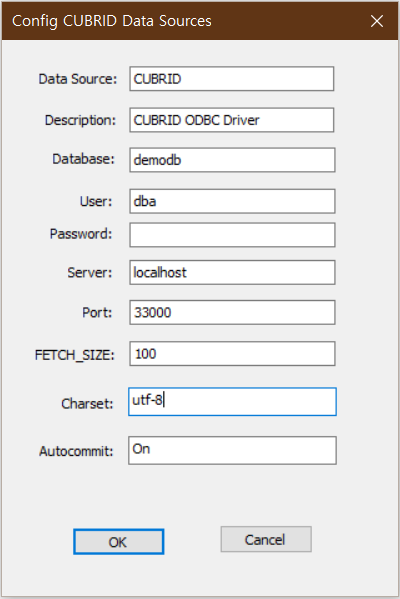
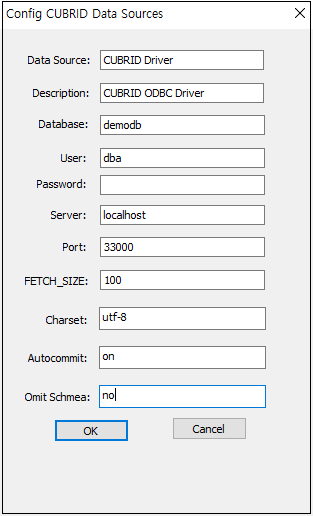
[CUBRIDMAN-126] [ODBC] new property omit_schema (#360)
new property omit_schema

Changed region(s): [[0.0, 0.0, 1.0, 1.0], [0.0863, 0.7442, 0.2875, 0.7752]]

diff --git a/en/api/odbc.rst b/en/api/odbc.rst
@@ -91,11 +91,12 @@ In the [Config CUBRID Data Sources] dialog box, enter information as follows:
 *   **Password** : The password of a database user
 *   **Server Address** : The host address of a database. The value should be either localhost or the IP address of other server.
 *   **Server Port** : The number of a broker port. You can check the CUBRID broker port number in the **cubrid_broker.conf** file. The default value is 33,000. To verify the port number, check the BROKER_PORT value in the **cubrid_broker.conf** file or enter the **cubrid service status** in the command prompt. The result will be displayed as follows:
-*   **Charset** : The name of the database charset.
-*   **Autocommit** : Autocommit mode. Default is OFF.
 
 .. image:: /images/image80.png
 
+*   **Charset** : The name of the database charset.
+*   **Autocommit** : Autocommit mode. Default is OFF.
+*   **Omit Schema** : This feature provides only the schema information created by the logged-in user when a user requests catalog information in a database server of version 11.2 or higher that supports the schema concept. This feature is required when **ERWin**:sup:`TM` uses CUBRID 11.2 or higher (omit_schema=yes). If **YES**, only information on the Tables/Views/Primary Keys/Foreign Keys owned by the logged-in user are provided, and the owner's name is removed on these objects. Default is **NO**.
 *   **FETCH_SIZE** : A value configures the number of records fetched from server whenever the **cci_fetch** () function of CCI library (which CUBRID ODBC driver internally uses) is called.
 
 After you filled out every field, click the [OK] button. You will notice that data source is added in the [User Data Sources] as shown below.
@@ -143,10 +144,12 @@ When you are programming CUBRID ODBC, write the connection strings as follows:
 +--------------+-----------------------+-----------------------------------------------------------+
 | AUTOCOMMIT   | ON                    | Autocommit mode                                           |
 +--------------+-----------------------+-----------------------------------------------------------+
+| OMIT_SCHEMA  | NO                    | Single Schema feature (applicable only 11.2 or higher)    |
++--------------+-----------------------+-----------------------------------------------------------+
 
 The following shows the result of using connection strings above. ::
 
-    "DRIVER={CUBRID Driver Unicode};UID=PUBLIC;PWD=xxx;FETCH_SIZE=100;PORT=33000;SERVER=127.0.0.1;DB_NAME=demodb;DESCRIPTION=cubrid_test;CHARSET=utf-8"
+    "DRIVER={CUBRID Driver Unicode};UID=PUBLIC;PWD=xxx;FETCH_SIZE=100;PORT=33000;SERVER=127.0.0.1;DB_NAME=demodb;DESCRIPTION=cubrid_test;CHARSET=utf-8;OMIT_SCHEMA=YES"
 
 If you use UTF-8 unicode, install a driver for unicode and input the driver name in the connection string as "Driver={CUBRID Driver Unicode}". Unicode is only supported in 9.3.0.0002 or higher version of CUBRID ODBC driver.
 
